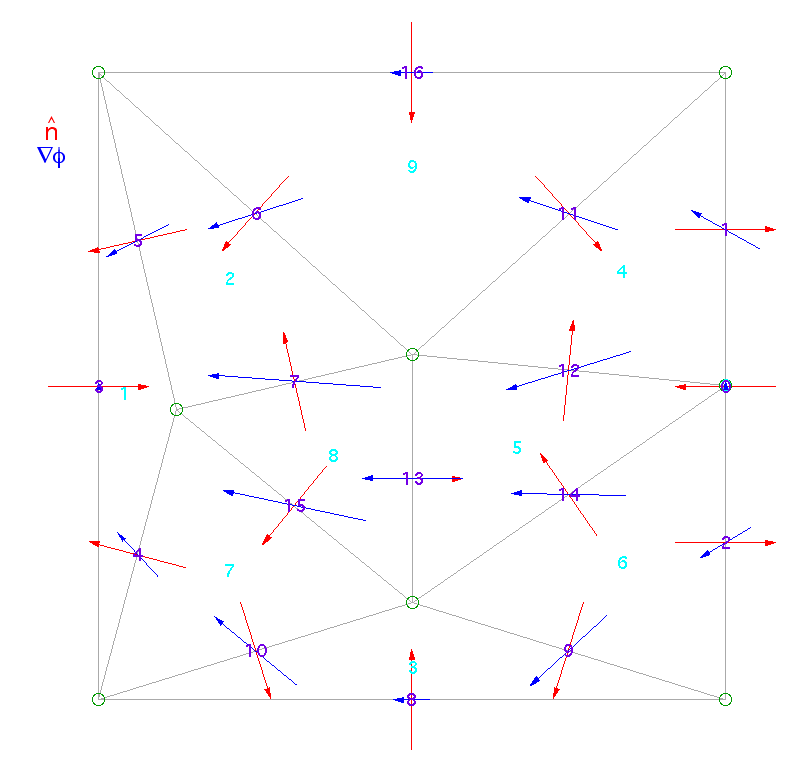
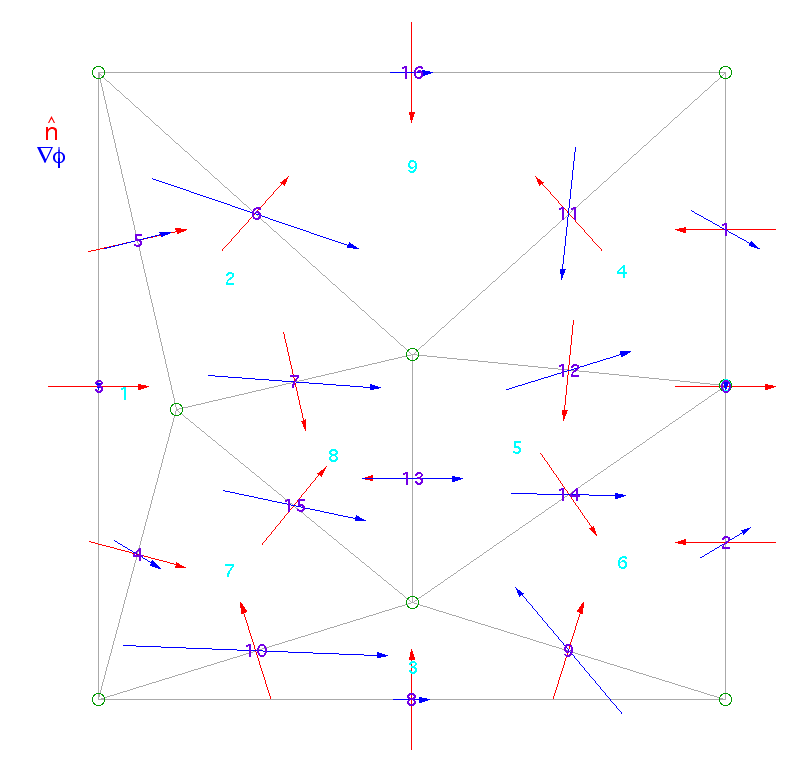
"correct" orientation of face normals
git-svn-id: svn+ssh://code.matforge.org/fipy/branches/version-1_2@2459 d80e17d7-ff13-0410-a124-85740d801063

Changed region(s): [[0.1807, 0.7132, 0.2108, 0.7442], [0.1807, 0.2791, 0.2108, 0.3101], [0.1205, 0.3101, 0.1506, 0.3411]]

diff --git a/fipy/meshes/numMesh/mesh.py b/fipy/meshes/numMesh/mesh.py
@@ -7,7 +7,7 @@
  # 
  #  FILE: "mesh.py"
  #                                    created: 11/10/03 {2:44:42 PM} 
- #                                last update: 1/3/07 {3:05:19 PM} 
+ #                                last update: 2/7/08 {11:01:57 AM} 
  #  Author: Jonathan Guyer <guyer@nist.gov>
  #  Author: Daniel Wheeler <daniel.wheeler@nist.gov>
  #  Author: James Warren   <jwarren@nist.gov>
@@ -472,7 +472,10 @@ class Mesh(_CommonMesh):
         norm[:,2] = norm[:,2] / sqrtDot
         
         self.faceNormals = -norm
-        
+
+        orientation = 1 - 2 * (numerix.dot(self.faceNormals, self.cellDistanceVectors) < 0)
+        self.faceNormals *= orientation[..., numerix.NewAxis]
+
     def _calcOrientedFaceNormals(self):
         self.orientedFaceNormals = self.faceNormals
         
@@ -488,14 +491,16 @@ class Mesh(_CommonMesh):
     def _calcFaceToCellDistances(self):
         tmp = numerix.take(self.cellCenters, self.faceCellIDs)
         tmp -= MA.repeat(self.faceCenters[:,numerix.NewAxis,...], 2, 1)
+        self.cellToFaceDistanceVectors = tmp
         self.faceToCellDistances = MA.sqrt(MA.sum(tmp * tmp,2))
 
     def _calcCellDistances(self):
         tmp = numerix.take(self.cellCenters, self.faceCellIDs)
         tmp = tmp[:,1] - tmp[:,0]
+        tmp = MA.filled(MA.where(MA.getmask(tmp), self.cellToFaceDistanceVectors[:,0], tmp))
         self.cellDistanceVectors = tmp
-        tmp = MA.sqrt(MA.sum(tmp * tmp,1))
-        self.cellDistances = MA.filled(MA.where(MA.getmask(tmp), self.faceToCellDistances[:,0], tmp))
+        self.cellDistances = MA.sqrt(MA.sum(tmp * tmp,1))
+##         self.cellDistances = MA.filled(MA.where(MA.getmask(tmp), self.faceToCellDistances[:,0], tmp))
 
     def _calcFaceToCellDistanceRatio(self):
         dAP = self._getCellDistances()

diff --git a/fipy/meshes/numMesh/mesh2D.py b/fipy/meshes/numMesh/mesh2D.py
@@ -7,7 +7,7 @@
  # 
  #  FILE: "mesh2D.py"
  #                                    created: 11/10/03 {2:44:42 PM} 
- #                                last update: 1/3/07 {3:09:49 PM} 
+ #                                last update: 2/7/08 {11:31:47 AM} 
  #  Author: Jonathan Guyer <guyer@nist.gov>
  #  Author: Daniel Wheeler <daniel.wheeler@nist.gov>
  #  Author: James Warren   <jwarren@nist.gov>
@@ -73,6 +73,10 @@ class Mesh2D(Mesh):
         self.faceNormals = t1.copy()
         self.faceNormals[:,0] = -t1[:,1] / numerix.sqrt(t1[:,1]**2 + t1[:,0]**2)
         self.faceNormals[:,1] = t1[:,0] / numerix.sqrt(t1[:,1]**2 + t1[:,0]**2)
+        
+        orientation = 1 - 2 * (numerix.dot(self.faceNormals, self.cellDistanceVectors) < 0)
+        self.faceNormals = self.faceNormals * orientation[..., numerix.NewAxis]
+
 
     def _calcFaceTangents(self):
         tmp = numerix.transpose(numerix.array((-self.faceNormals[:,1], self.faceNormals[:,0])))

diff --git a/fipy/meshes/common/mesh.py b/fipy/meshes/common/mesh.py
@@ -7,7 +7,7 @@
  # 
  #  FILE: "mesh.py"
  #                                    created: 11/10/03 {2:44:42 PM} 
- #                                last update: 1/3/07 {3:07:59 PM} 
+ #                                last update: 2/7/08 {11:01:14 AM} 
  #  Author: Jonathan Guyer <guyer@nist.gov>
  #  Author: Daniel Wheeler <daniel.wheeler@nist.gov>
  #  Author: James Warren   <jwarren@nist.gov>
@@ -357,12 +357,12 @@ class Mesh:
     
     def _calcGeometry(self):
         self._calcFaceAreas()
-        self._calcFaceNormals()
-        self._calcOrientedFaceNormals()
-        self._calcCellVolumes()
         self._calcCellCenters()
         self._calcFaceToCellDistances()
         self._calcCellDistances()        
+        self._calcFaceNormals()
+        self._calcOrientedFaceNormals()
+        self._calcCellVolumes()
         self._calcFaceTangents()
         self._calcCellToCellDistances()
         self._calcScaledGeometry()

diff --git a/gmshTest.py b/gmshTest.py
@@ -39,12 +39,8 @@ from fipy.meshes.gmshImport import GmshImporter2D
 mesh3 = GmshImporter2D(meshName)
 os.remove(meshName)
 
-## x, y = mesh3.getCellCenters()
-## var3 = CellVariable(mesh=mesh3, value=x)
-## ## print var3.getFaceGrad()
-## print mesh3._getOrientedFaceNormals()
-
 var3 = VectorFaceVariable(mesh=mesh3, value=mesh3._getOrientedFaceNormals())
 x = mesh3.getCellCenters()[...,0]
 var4 = CellVariable(mesh=mesh3, value=x)
 
+TSVViewer(vars=(var4.getFaceGrad(), var3)).plot("Gmsh.txt")
